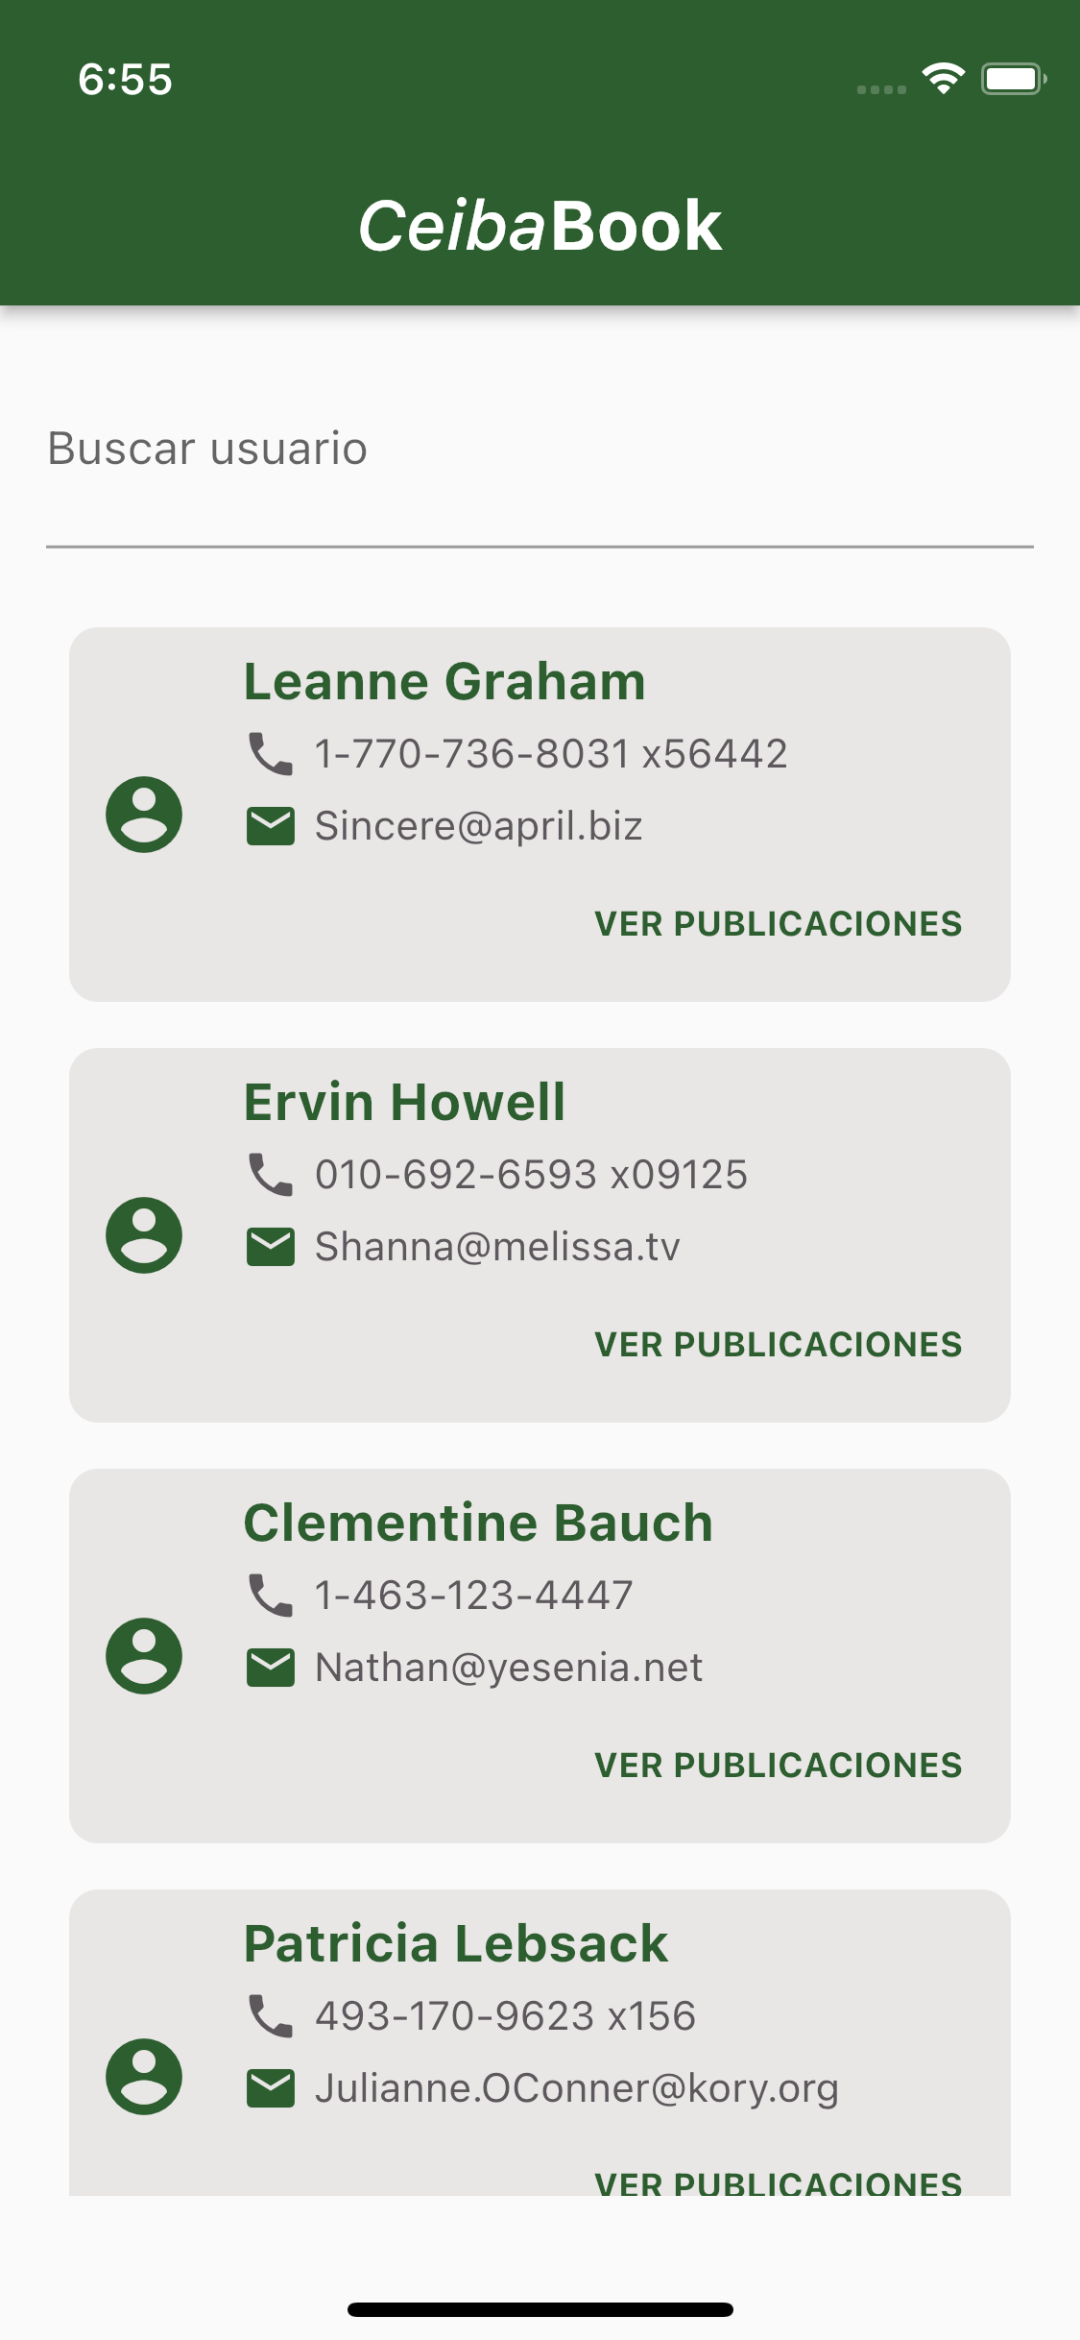
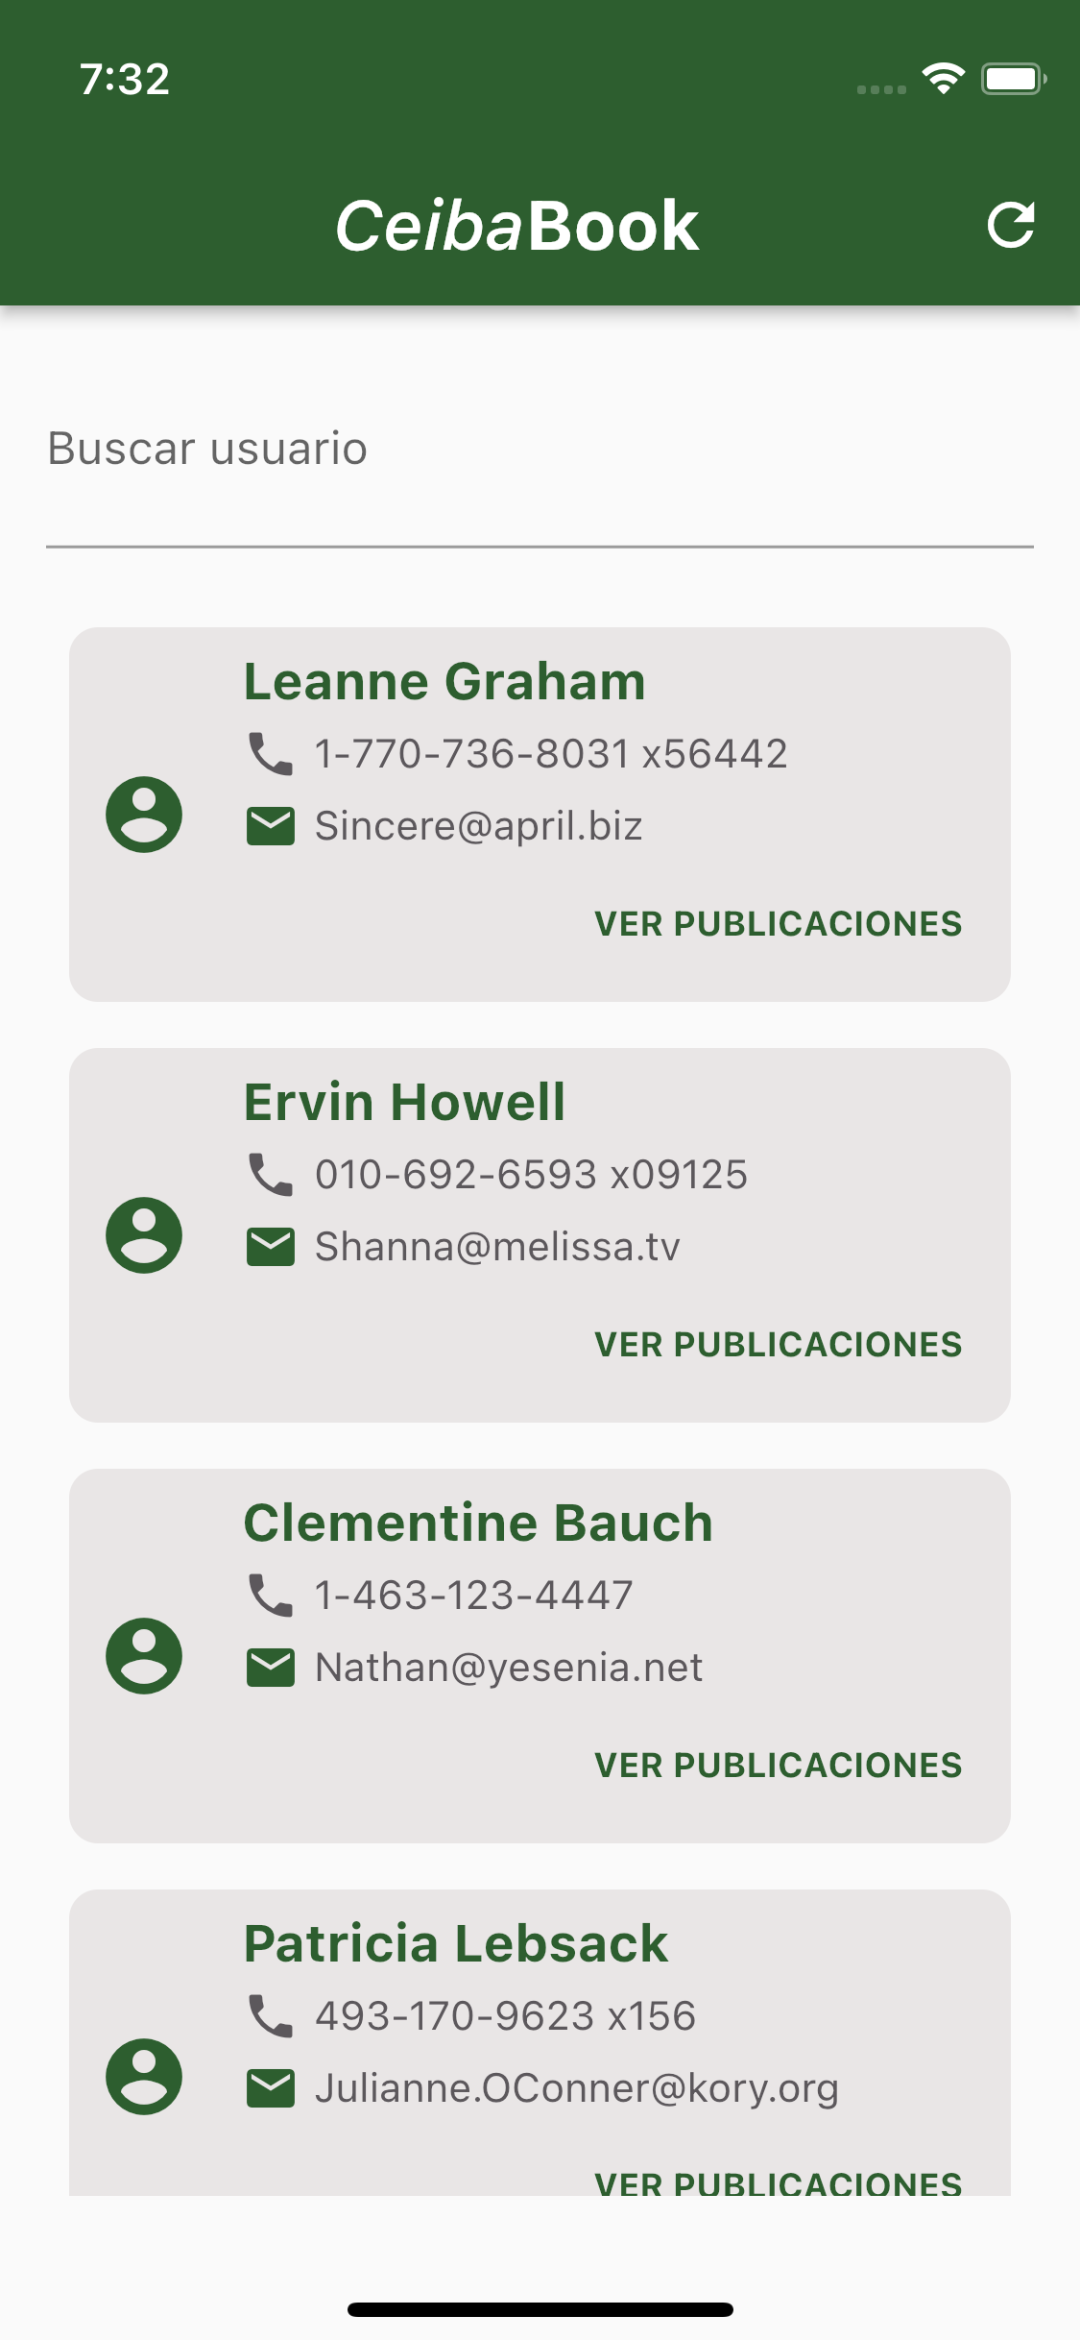
Updated documentation

Changed region(s): [[0.3056, 0.0624, 0.6722, 0.1248], [0.0611, 0.0312, 0.1528, 0.0624], [0.9167, 0.0624, 0.9472, 0.1248]]

diff --git a/README.md b/README.md
@@ -4,7 +4,7 @@ A new application to check users and posts on CeibaBook social network.
 
 ## Main Screen
 
-The main screen shows all the users from CeibaBook. It stores the users internally on the device once it gets them from the server. 
+The main screen shows all the users from CeibaBook. It stores the users internally on the device once it gets them from the server. Also the user can refresh the list using a refresh button. This button will clear the cached users stored in the device and retrieve the users again from the server.
 
 <p align="center">
 <img src="readme/main_screen.png" width="200">
